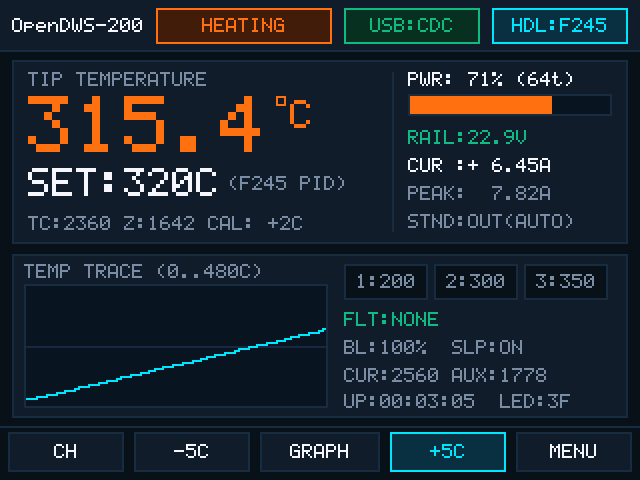
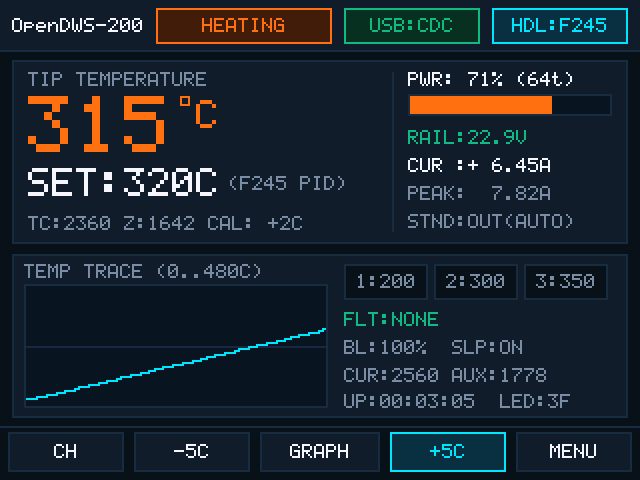
chore(release): finalize v1.0.0 docs, screenshots, and clean asset names

diff --git a/pc-app/src/main.js b/pc-app/src/main.js
@@ -259,6 +259,7 @@ app.whenReady().then(() => {
       if (!rel || rel.draft) continue;
       const assets = Array.isArray(rel.assets) ? rel.assets : [];
       const binAsset =
+        assets.find((a) => /^OpenDWS-200-Firmware.*\.bin$/i.test(a.name)) ||
         assets.find((a) => /^APP_DWS_200_.*\.bin$/i.test(a.name)) ||
         assets.find((a) => /\.bin$/i.test(a.name));
       if (!binAsset) continue;

diff --git a/src/app_config.h b/src/app_config.h
@@ -2,7 +2,7 @@
 
 /* OpenDWS-200 Firmware Configuration (Phase 2 - Closed-Loop PID & Safety) */
 #ifndef OPENDWS_VERSION_STR
-#define OPENDWS_VERSION_STR "v0.3.1"
+#define OPENDWS_VERSION_STR "v1.0.0"
 #endif
 
 /* Phase 2: Heater enabled ONLY on explicit user command, ALWAYS boots in STANDBY (PA2 LOW). */

diff --git a/README.md b/README.md
@@ -6,7 +6,7 @@
 Alternative **Open-Source Bare-Metal-Firmware** für die **FNIRSI DWS-200** 200-W-Präzisionslötstation (MCU: Artery `AT32F415RCT7`, ARM Cortex-M4 ohne FPU, `144 MHz`).
 
 > [!IMPORTANT]
-> **Phase 2 — Geschlossene PID-Regelung, Auto-Off-Timer & flimmerfreie UI (`v0.2.7-phase2`)**
+> **Final Release `v1.0.0` — Geschlossene PID-Regelung, 3-Punkt-Kalibrierung & OpenDWS-200 Studio**
 > Nach dem Einschalten fährt die Station (sofern der Kolben im Ständer ruht und eine Spitze steckt) automatisch in den ruhigen **Vollbild-Standby (`100 °C` Vorheizen + Auto-Off-Countdown)** und wartet auf die Entnahme des Kolbens (`PB5`). Fehlt die Spitze (`PC0 > 4000`), erscheint automatisch die grafische **`NO TIP! / KEINE SPITZE!`**-Warnung mit wiederkehrendem Signalton (`1,5 s`), und Heizen bleibt strikt gesperrt. Der **Power-Button (`PB0`/`PB1`)** speichert geänderte Settings und schaltet sauber ab.
 
 ---
@@ -27,7 +27,7 @@ Alternative **Open-Source Bare-Metal-Firmware** für die **FNIRSI DWS-200** 200-
 
 ---
 
-## 🌟 Features (`v0.2.7-phase2`)
+## 🌟 Features (`v1.0.0`)
 
 - **⚡ Originalgetreuer Auto-Ständer (`PB5`), Standby-Schirm & Auto-Off-Schutz:**
   - **Boot-Standby & Vorheizen:** Start im Ständer (`PB5 = LOW`) heizt nach dem `455-µs`-Prüfpuls auf `100 °C` vor und zeigt den ruhigen Vollbild-Standby-Schirm (`Standby Screen` im Menü abschaltbar). Entnahme aus dem Ständer (`PB5: LOW→HIGH`) startet automatisch die volle Solltemperatur; Boot außerhalb des Ständers bleibt sicher auf `0 W`.
@@ -36,10 +36,10 @@ Alternative **Open-Source Bare-Metal-Firmware** für die **FNIRSI DWS-200** 200-
   - **Grafischer `NO TIP! / KEINE SPITZE!`-Warnbildschirm:** Erscheint automatisch bei fehlender Spitze (`FAULT_OPEN_TIP`, `PC0 > 4000`) mit alle `1,5 s` wiederkehrendem Signalton.
   - **Soft-Power-Latch (`PB0`/`PB1`):** Speichert geänderte Einstellungen automatisch im Flash (`0x0803F800`) und schaltet über `PB1 = LOW` sauber ab.
 
-- **🖥 Flimmerfreie Aurora-Dark Löt-UI (`320 × 240`, ST7789V) & Diagramm-Ansicht:**
-  - **Flimmerfreie Darstellung:** Single-Pass-Streifenpuffer (`gfx_draw_badge` / Sparkline / Dual-Graph) mit `10 Hz`-Refresh ohne sichtbares Löschen/Neuzeichen.
+- **🖥 Flimmerfreie Aurora-Dark Löt-UI (`320 × 240`, ST7789V) & ruhige Temperaturanzeige:**
+  - **Flimmerfreie Darstellung & Ganzzahl-Glättung:** Single-Pass-Streifenpuffer (`gfx_draw_badge` / Sparkline / Dual-Graph) mit `10 Hz`-Refresh. Ein adaptiver Glättungsfilter mit `±0,7 °C`-Hysterese rundet die Anzeige auf ruhige ganze `°C` ohne springende Ziffern (interner PID-Regler, Live-Graph und CSV-Logger rechnen weiter mit `0,1 °C`).
   - **Duales Temperatur- & Leistungsdiagramm (`GRAPH`):** Per `MODE/OK` (`PD2`) umschaltbar — zeigt live Temperaturverlauf (`0..480 °C`), Leistung (`0..100 %`) und Sollwert-Linie (`-- SET`).
-  - **On-Screen-Einstellungsmenü (`PB4`):** Sleep Temp (`OFF` / `50–250 °C`, Standard `100 °C`), Auto Stand `ON/OFF`, **Standby Screen `ON/OFF`**, **Auto Off (`OFF` / `5–60 min`, Standard `10 min`)**, Presets `CH1..3`, Spitzenkalibrierung (`Cal F245/F210`), Backlight (`10–100 %`), Buzzer `ON/OFF`, USB Stream `ON/OFF` und `Save to Flash`.
+  - **On-Screen-Einstellungsmenü (`PB4`):** Sleep Temp (`OFF` / `50–250 °C`, Standard `100 °C`), Auto Stand `ON/OFF`, **Standby Screen `ON/OFF`**, **Auto Off (`OFF` / `5–60 min`, Standard `10 min`)**, Presets `CH1..3`, **3-Punkt-Kalibrierung (`Cal 150 / 250 / 350` je `F245` / `F210`)**, Backlight (`10–100 %`), Buzzer `ON/OFF`, USB Stream `ON/OFF` und `Save to Flash`.
 
 ### Tastenbelegung (v. l. n. r.)
 
@@ -51,8 +51,8 @@ Alternative **Open-Source Bare-Metal-Firmware** für die **FNIRSI DWS-200** 200-
 | 4. v. l. (`>`) | `PB3` | Sollwert `+5 °C` (Langdruck `+25 °C`) | Runter scrollen / Wert `+` |
 | Rechts (`MENU`) | `PB4` | Einstellungsmenü öffnen | Einstellungsmenü schließen |
 
-- **🔥 `100 Hz` Blanking & `91 µs` PID-Regelung (`TMR1` + `TMR2`):**
-  - Verifiziertes DC-Blanking aus `APP_DWS_200_V1.5`: `1,0 ms` nach `PA2 = LOW` misst `PC0` die Thermospannung ohne Heizstrom-Störung (`alpha = 0,2` EMA).
+- **🔥 `100 Hz` Blanking, `91 µs` PID-Regelung & Stock-Kaltstellen-Kalibrierung (`TMR1` + `TMR2`):**
+  - Verifiziertes DC-Blanking aus `APP_DWS_200_V1.5`: `1,0 ms` nach `PA2 = LOW` misst `PC0` die Thermospannung ohne Heizstrom-Störung (`alpha = 0,2` EMA) inklusive festem **`+25,0 °C` Stock-V1.5 Kaltstellen-Basisoffset** (`TIP_COLD_JUNCTION_DECI_C`) und getrennter **3-Punkt-Kalibrierung (`150 °C`, `250 °C`, `350 °C`)**.
   - Automatische Griff-Erkennung über `PB6` + Backup-Domain Analog-Mux (`PC13..PC15`) inkl. `1,0 s` Einschwing-Sperre:
     - **`F245` (`PB6 = 1`):** `200 W` Profil, `5`-Segment-Kennlinie, max. `80..90` Ticks (`7,3..8,2 ms`), Kurzschluss-Cutoff `10,0 A`.
     - **`F210` (`PB6 = 0`):** `C210`-Kennlinie, hart begrenzt auf max. `30` Ticks (`2,73 ms`), Kurzschluss-Cutoff `15,0 A`.
@@ -68,8 +68,8 @@ Alternative **Open-Source Bare-Metal-Firmware** für die **FNIRSI DWS-200** 200-
 
 Im Ordner [`pc-app/`](pc-app/) liegt die **Electron Desktop-App (`OpenDWS-200 Studio`)** im Aurora-Dark-Design mit 3D-App-/Desktop-Icon als **Windows-Installer (`setup.exe`)** sowie **Portable-EXE** (über den gemeinsamen Release-Workflow in [GitHub Releases](../../releases) gebündelt):
 
-- **Direkter Download:** Unter [GitHub Releases](../../releases) (`OpenDWS-200-Studio-*-win-x64-setup.exe` und `OpenDWS-200-Studio-*-win-x64-portable.exe` gemeinsam mit der Firmware-`.bin`).
-- **Funktionen:** Automatische USB-Erkennung & Reconnect (`Auto-USB`, `VID 0x2E3C / PID 0x5740`), Live-Temperatur-/Leistungs-/Strom-Plotter, vollständige Fernsteuerung (`TEMP`, `PRESET`, `HEAT`, `SLEEP`, `CAL`, `BL`, `SAVE`), CSV-Export, Raw-USB-Konsole sowie 1-Klick-Firmware-Updater (GitHub-Release oder lokale `.bin` direkt aufs `BOOTLOADER`-Laufwerk mit SHA-256-Prüfung).
+- **Direkter Download:** Unter [GitHub Releases](../../releases) gebündelt als `OpenDWS-200-Firmware-v*.bin`, `OpenDWS-200-Studio-Setup-v*.exe` (Windows-Installer mit Desktop-/Startmenü-Icon) und `OpenDWS-200-Studio-Portable-v*.exe`.
+- **Funktionen:** Automatische USB-Erkennung & Reconnect (`Auto-USB`, `VID 0x2E3C / PID 0x5740`), ruhige Temperaturanzeige + Live-Plotter (`0,1 °C`), editierbare `CH1–CH3`-Presets im Live-Sync mit der Station, 3-Punkt-Spitzenkalibrierung (`150 / 250 / 350 °C`), CSV-Export, Raw-USB-Konsole sowie 1-Klick-Firmware-Updater (GitHub-Release oder lokale `.bin` direkt aufs `BOOTLOADER`-Laufwerk).
 
 ---
 
@@ -78,13 +78,14 @@ Im Ordner [`pc-app/`](pc-app/) liegt die **Electron Desktop-App (`OpenDWS-200 St
 1. Lötstation am rückseitigen Netzschalter ausschalten.
 2. **MODE-Taste** (`PD2`) gedrückt halten und per **USB-C-Datenkabel** mit dem PC verbinden.
 3. Im Windows-Explorer erscheint das Laufwerk `BOOTLOADER`.
-4. `APP_DWS_200_OpenDWS-*.bin` (aus den [GitHub Releases](../../releases)) auf `BOOTLOADER` kopieren und neu starten.
+4. `OpenDWS-200-Firmware-v*.bin` (aus den [GitHub Releases](../../releases)) auf `BOOTLOADER` kopieren und neu starten.
 5. Rückkehr zur Stock-Firmware jederzeit durch Aufspielen von `APP_DWS_200_V1.5_250922.bin` im `BOOTLOADER`-Modus.
 
 ---
 
 ## 📚 Dokumentation & Tests
 
+- [Changelog](CHANGELOG.md)
 - [Hardware-Map & Pinout](docs/hardware-map.md)
 - [Phase-2 Regelungs- & Stock-Analyse](docs/phase2-control-analysis.md)
 - [USB-CDC Protokoll-Referenz](docs/usb-protocol.md)

diff --git a/CHANGELOG.md b/CHANGELOG.md
@@ -1,0 +1,24 @@
+# Changelog
+
+Alle wesentlichen Meilensteine von **OpenDWS-200** (Firmware + **OpenDWS-200 Studio**).
+
+## [v1.0.0] — Finales kombiniertes Release
+- **Saubere Release-Dateien ohne Zusatz-Checksums:**
+  - `OpenDWS-200-Firmware-v1.0.0.bin`
+  - `OpenDWS-200-Studio-Setup-v1.0.0.exe` (Windows NSIS Installer)
+  - `OpenDWS-200-Studio-Portable-v1.0.0.exe`
+- **Dokumentation & Vorschau:** `README.md`, `docs/usb-protocol.md` und alle UI-Screenshots (`docs/screenshots/*.png`) auf den finalen Stand gebracht.
+- **PC Studio Updater:** Erkennt neben `APP_DWS_200_*.bin` nun bevorzugt `OpenDWS-200-Firmware-*.bin`.
+
+## [v0.3.1] — Editierbare Presets (`CH1–CH3`)
+- **PC Studio:** `CH1`, `CH2` und `CH3` unter den Preset-Tasten direkt editierbar (`100..450 °C`, im `localStorage` gesichert und bidirektional mit der Station synchronisiert).
+- **Firmware USB-Protokoll:** `PRESET <1..3> [100..450]` zum Lesen/Ändern von Presets per USB sowie `presets=p1,p2,p3` im `STAT`-Telemetrie-Stream.
+
+## [v0.3.0] — Stock-Kaltstelle (`+25 °C`), 3-Punkt-Kalibrierung & ruhige Anzeige
+- **Stock-V1.5-Kaltstellen-Offset:** Festes `+25,0 °C`-Baseline-Offset (`TIP_COLD_JUNCTION_DECI_C = 250`) nach der 5-Segment-LUT ergänzt.
+- **3-Punkt-Spitzenkalibrierung (`150 °C`, `250 °C`, `350 °C`):** Getrennt für `F245` und `F210` in Flash-Settings (`SETTINGS_VERSION = 6`), Stationsmenü (`Cal 150 / 250 / 350`), USB (`CAL [150|250|350] <-50..50>`) und PC Studio.
+- **Ruhige Temperaturanzeige:** Adaptiver Glättungsfilter mit `±0,7 °C`-Hysterese und Ganzzahl-Rundung auf TFT und PC-Studio-KPI (PID, Graph und CSV behalten volle `0,1 °C`-Auflösung).
+
+## [v0.2.7-phase2] — Phase-2 PID, Auto-Ständer, Auto-Off & PC Studio Basis
+- Geschlossene `100 Hz` / `91 µs`-PID-Regelung, automatische `F245`/`F210`-Erkennung (`PB6` + `PC13..PC15`), Standby-Schirm, konfigurierbarer Auto-Off-Timer, `GRAPH`-Modus und Flash-Settings.
+- **OpenDWS-200 Studio:** Live-Plotter, Auto-USB-Reconnect, 3D-Icon, Windows-Setup-Installer, CSV-Logger und integrierter `BOOTLOADER`-Firmware-Updater.

diff --git a/docs/usb-protocol.md b/docs/usb-protocol.md
@@ -13,7 +13,7 @@ Im laufenden Betrieb meldet sich OpenDWS-200 am USB-C-Port als **USB CDC-ACM (Vi
 | Befehl | Beschreibung | Beispielantwort |
 | :--- | :--- | :--- |
 | `HELP` oder `?` | Liste aller Befehle | `OK CMDS: HELP \| INFO \| STAT \| ...` |
-| `INFO` | Firmware, MCU, Griff, Zustand, 24-V-Rail, Uptime | `INFO fw=v0.3.1 mcu=AT32F415RCT7 clk=144MHz safe_mode=0 handle=F245 state=STANDBY rail_mv=22940 uptime_ms=12540` |
+| `INFO` | Firmware, MCU, Griff, Zustand, 24-V-Rail, Uptime | `INFO fw=v1.0.0 mcu=AT32F415RCT7 clk=144MHz safe_mode=0 handle=F245 state=STANDBY rail_mv=22940 uptime_ms=12540` |
 | `STAT` | Vollständiger Telemetrie-Schnappschuss | `STAT ms=12540 state=HEAT fault=0x00(NONE) handle=F245 tip_c=300.2 target_c=300 act_c=300 duty=45 ticks=40 rail_mv=22928 ... cal=0,0,0 presets=200,300,350` |
 | `HEAT <ON\|OFF\|1\|0>` | Heizung aktivieren / in `STANDBY` setzen (verweigert bei `NO_24V_RAIL` oder aktivem Fault) | `OK HEAT=ON` oder `ERR NO_24V_RAIL` |
 | `TEMP <100..450>` | Solltemperatur in °C setzen (`SET <t>` als Alias) | `OK TEMP=320` |
